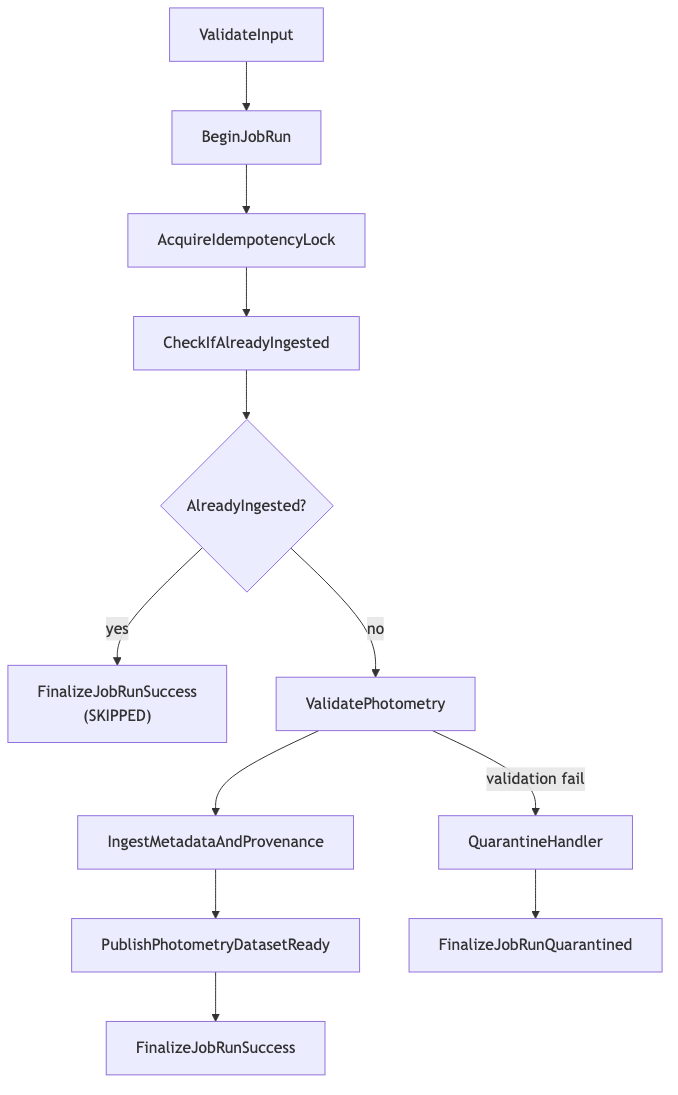
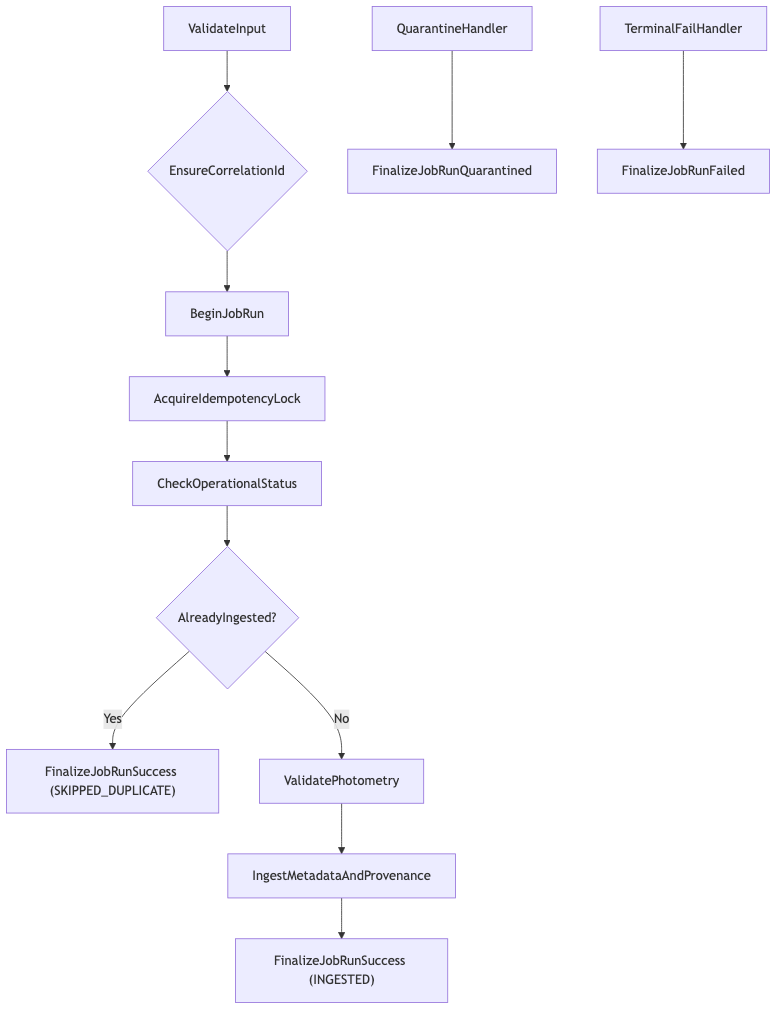
chore(diagrams): regenerate workflow diagrams to reflect updated state machines

diff --git a/docs/diagrams/workflow-initialize-nova.md b/docs/diagrams/workflow-initialize-nova.md
@@ -1,16 +1,31 @@
 ```mermaid
 flowchart TD
-  A[ValidateInput] --> B[BeginJobRun]
-  B --> C[AcquireIdempotencyLock]
-  C --> D[ResolveCandidate]
-  D --> E{VerifyClassicalNova}
-  E -- classical --> F[UpsertCriticalMetadata]
-  F --> G[PublishInitializeNovaCompleted]
-  G --> H[FinalizeJobRunSuccess]
+  A[ValidateInput] --> B{EnsureCorrelationId}
+  B --> C[BeginJobRun]
+  C --> D[AcquireIdempotencyLock]
+  D --> E[NormalizeCandidateName]
+  E --> F[CheckExistingNovaByName]
+  F --> G{ExistsInDB?}
 
-  E -- ambiguous --> Q[QuarantineHandler]
-  Q --> HQ[FinalizeJobRunQuarantined]
+  G -- Yes --> H[PublishIngestNewNova]
+  H --> I["FinalizeJobRunSuccess (EXISTS_AND_LAUNCHED)"]
 
-  E -- not classical --> T[TerminalFailHandler]
-  T --> HT[FinalizeJobRunFailed]
+  G -- No --> J[ResolveCandidateAgainstPublicArchives]
+  J --> K{CandidateIsNova?}
+
+  K -- No --> L["FinalizeJobRunSuccess (NOT_FOUND)"]
+
+  K -- Yes --> M{CandidateIsClassicalNova?}
+  M -- No --> N["FinalizeJobRunSuccess (NOT_A_CLASSICAL_NOVA)"]
+
+  M -- Ambiguous --> Q[QuarantineHandler]
+  Q --> R[FinalizeJobRunQuarantined]
+
+  M -- Yes --> O[CreateNovaId]
+  O --> P[UpsertMinimalNovaMetadata]
+  P --> H2[PublishIngestNewNova]
+  H2 --> S["FinalizeJobRunSuccess (CREATED_AND_LAUNCHED)"]
+
+  %% Terminal failure path (workflow-level)
+  T[TerminalFailHandler] --> U[FinalizeJobRunFailed]
 ```

diff --git a/docs/diagrams/workflow-download-and-validate-spectra.md b/docs/diagrams/workflow-download-and-validate-spectra.md
@@ -1,14 +1,20 @@
 ```mermaid
 flowchart TD
-  A[ValidateInput] --> B[BeginJobRun] --> C[AcquireIdempotencyLock]
-  C --> D[CheckOperationalStatus]
-  D --> E{AlreadyValidated?}
+  A[ValidateInput] --> B{EnsureCorrelationId}
+  B --> C[BeginJobRun]
+  C --> D[AcquireIdempotencyLock]
+  D --> E[LoadDatasetMetadata]
+  E --> F[CheckOperationalStatus]
+  F --> G{AlreadyValidated?}
 
-  E -- yes --> P["PublishSpectraDatasetValidated</br> (optional)"] --> S["FinalizeJobRunSuccess</br> (SKIPPED)"]
-  E -- no --> DL[EnsureDownloaded] --> V[ValidateBytes] --> R[RecordValidationResult]
-  R --> P2[PublishSpectraDatasetValidated] --> S2[FinalizeJobRunSuccess]
+  G -- Yes --> H["FinalizeJobRunSuccess (SKIPPED_DUPLICATE)"]
 
-  DL -->|checksum mismatch| Q[QuarantineHandler] --> SQ[FinalizeJobRunQuarantined]
-  V -->|validation fail| Q
+  G -- No --> I[AcquireArtifact]
+  I --> J["ValidateBytes (Profile-Driven)"]
+  J --> K[RecordValidationResult]
+  K --> L["FinalizeJobRunSuccess (VALIDATED)"]
+
+  Q[QuarantineHandler] --> R[FinalizeJobRunQuarantined]
+  TF[TerminalFailHandler] --> FF[FinalizeJobRunFailed]
 
 ```

diff --git a/docs/diagrams/workflow-name-check-and-reconcile.md b/docs/diagrams/workflow-name-check-and-reconcile.md
@@ -1,15 +1,18 @@
 ```mermaid
 flowchart TD
-    A[ValidateInput] --> B[BeginJobRun]
-    B --> C[AcquireIdempotencyLock]
-    C --> D[NormalizeName]
-    D --> P{"QueryResolvers</br> (Parallel)"}
-    P --> R[ReconcileResults]
-    R --> X{Decision}
+  A[ValidateInput] --> B{EnsureCorrelationId}
+  B --> C[BeginJobRun]
+  C --> D[AcquireIdempotencyLock]
+  D --> E[FetchCurrentNamingState]
+  E --> F{"QueryNamingAuthorities (Parallel)"}
+  F --> G[ReconcileNaming]
+  G --> H{NamingChanged?}
 
-    X -- resolved --> U[ApplyNameUpdates] --> E[PublishNameResolved] --> S[FinalizeJobRunSuccess]
-    X -- no match --> N[CreateNovaIdAndInitialize] --> U
-    X -- ambiguous --> Q[QuarantineHandler] --> SQ[FinalizeJobRunQuarantined]
+  H -- No --> I["FinalizeJobRunSuccess (NO_CHANGE)"]
+  H -- Yes --> J[ApplyNameUpdates]
+  J --> K["PublishNameReconciled (optional)"]
+  K --> L["FinalizeJobRunSuccess (UPDATED)"]
 
-    R -->|terminal error| T[TerminalFailHandler] --> ST[FinalizeJobRunFailed]
+  Q[QuarantineHandler] --> R[FinalizeJobRunQuarantined]
+  T[TerminalFailHandler] --> U[FinalizeJobRunFailed]
 ```

diff --git a/docs/diagrams/workflow-discover-spectra-products.md b/docs/diagrams/workflow-discover-spectra-products.md
@@ -1,14 +1,20 @@
 ```mermaid
 flowchart TD
-  A[ValidateInput] --> B[BeginJobRun] --> C[AcquireIdempotencyLock]
-  C --> M{"DiscoverAcrossProviders</br> (Map)"}
-  M --> Q[QueryProviderForProducts]
-  Q --> N[NormalizeProviderProducts]
-  N --> D[DeduplicateAndAssignDatasetIds]
-  D --> E[PublishDatasetDiscoveredEvents]
-  E --> M
-  M --> S[SummarizeDiscovery]
-  S --> P[PublishSpectraProductsDiscovered]
-  P --> F[FinalizeJobRunSuccess]
+  A[ValidateInput] --> B{EnsureCorrelationId}
+  B --> C[BeginJobRun]
+  C --> D[AcquireIdempotencyLock]
+  D --> E{"DiscoverAcrossProviders (Map)"}
+
+  E --> F[QueryProviderForProducts]
+  F --> G[NormalizeProviderProducts]
+  G --> H[DeduplicateAndAssignDatasetIds]
+  H --> I[PersistDatasetMetadata]
+  I --> J[PublishDownloadAndValidateSpectraRequests]
+  J --> E
+
+  E --> K[SummarizeDiscovery]
+  K --> L[FinalizeJobRunSuccess]
+
+  TF[TerminalFailHandler] --> FF[FinalizeJobRunFailed]
 
 ```

diff --git a/docs/diagrams/workflow-ingest-photometry-dataset.md b/docs/diagrams/workflow-ingest-photometry-dataset.md
@@ -1,11 +1,17 @@
 ```mermaid
 flowchart TD
-  A[ValidateInput] --> B[BeginJobRun] --> C[AcquireIdempotencyLock]
-  C --> D[CheckIfAlreadyIngested]
-  D --> E{AlreadyIngested?}
-  E -- yes --> S["FinalizeJobRunSuccess</br>(SKIPPED)"]
-  E -- no --> V[ValidatePhotometry] --> I[IngestMetadataAndProvenance]
-  I --> P[PublishPhotometryDatasetReady] --> F[FinalizeJobRunSuccess]
-  V -->|validation fail| Q[QuarantineHandler] --> QF[FinalizeJobRunQuarantined]
+  A[ValidateInput] --> B{EnsureCorrelationId}
+  B --> C[BeginJobRun]
+  C --> D[AcquireIdempotencyLock]
+  D --> E[CheckOperationalStatus]
+  E --> F{AlreadyIngested?}
+
+  F -- Yes --> G["FinalizeJobRunSuccess (SKIPPED_DUPLICATE)"]
+  F -- No --> H[ValidatePhotometry]
+  H --> I[IngestMetadataAndProvenance]
+  I --> J["FinalizeJobRunSuccess (INGESTED)"]
+
+  Q[QuarantineHandler] --> R[FinalizeJobRunQuarantined]
+  TF[TerminalFailHandler] --> FF[FinalizeJobRunFailed]
 
 ```

diff --git a/docs/diagrams/workflow-refresh-references.md b/docs/diagrams/workflow-refresh-references.md
@@ -1,15 +1,20 @@
 ```mermaid
 flowchart TD
-  A[ValidateInput] --> B[BeginJobRun] --> C[AcquireIdempotencyLock]
-  C --> D[FetchReferenceCandidates]
-  D --> M{"ReconcileReferences (Map)"}
+  A[ValidateInput] --> B{EnsureCorrelationId}
+  B --> C[BeginJobRun]
+  C --> D[AcquireIdempotencyLock]
+  D --> E[FetchReferenceCandidates]
+  E --> M{"ReconcileReferences (Map)"}
+
   M --> N[NormalizeReference]
-  N --> U[UpsertReferenceEntity]
-  U --> L[LinkNovaReference]
-  L --> M
-  M --> DD[ComputeDiscoveryDate]
-  DD --> UD[UpsertDiscoveryDateMetadata]
-  UD --> P[PublishRefreshReferencesCompleted]
-  P --> S[FinalizeJobRunSuccess]
+  N --> O[UpsertReferenceEntity]
+  O --> P[LinkNovaReference]
+  P --> M
+
+  M --> R[ComputeDiscoveryDate]
+  R --> S[UpsertDiscoveryDateMetadata]
+  S --> T[FinalizeJobRunSuccess]
+
+  TF[TerminalFailHandler] --> FF[FinalizeJobRunFailed]
 
 ```

diff --git a/docs/diagrams/workflow-ingest-new-nova.md b/docs/diagrams/workflow-ingest-new-nova.md
@@ -1,11 +1,16 @@
 ```mermaid
 flowchart TD
-  A[ValidateInput] --> B[BeginJobRun] --> C[AcquireIdempotencyLock]
-  C --> D[EnsureInitialized]
-  D --> P{"LaunchDownstream</br> (Parallel)"}
-  P --> R[LaunchRefreshReferences]
-  P --> S[LaunchDiscoverSpectraProducts]
-  R --> M[SummarizeLaunch] --> E[PublishIngestNewNovaLaunched] --> F[FinalizeJobRunSuccess]
-  S --> M
+  A[ValidateInput] --> B{EnsureCorrelationId}
+  B --> C[BeginJobRun]
+  C --> D[AcquireIdempotencyLock]
+  D --> E{"LaunchDownstream (Parallel)"}
+
+  E --> F[LaunchRefreshReferences]
+  E --> G[LaunchDiscoverSpectraProducts]
+  F --> H[SummarizeLaunch]
+  G --> H
+  H --> I[FinalizeJobRunSuccess]
+
+  T[TerminalFailHandler] --> U[FinalizeJobRunFailed]
 
 ```
